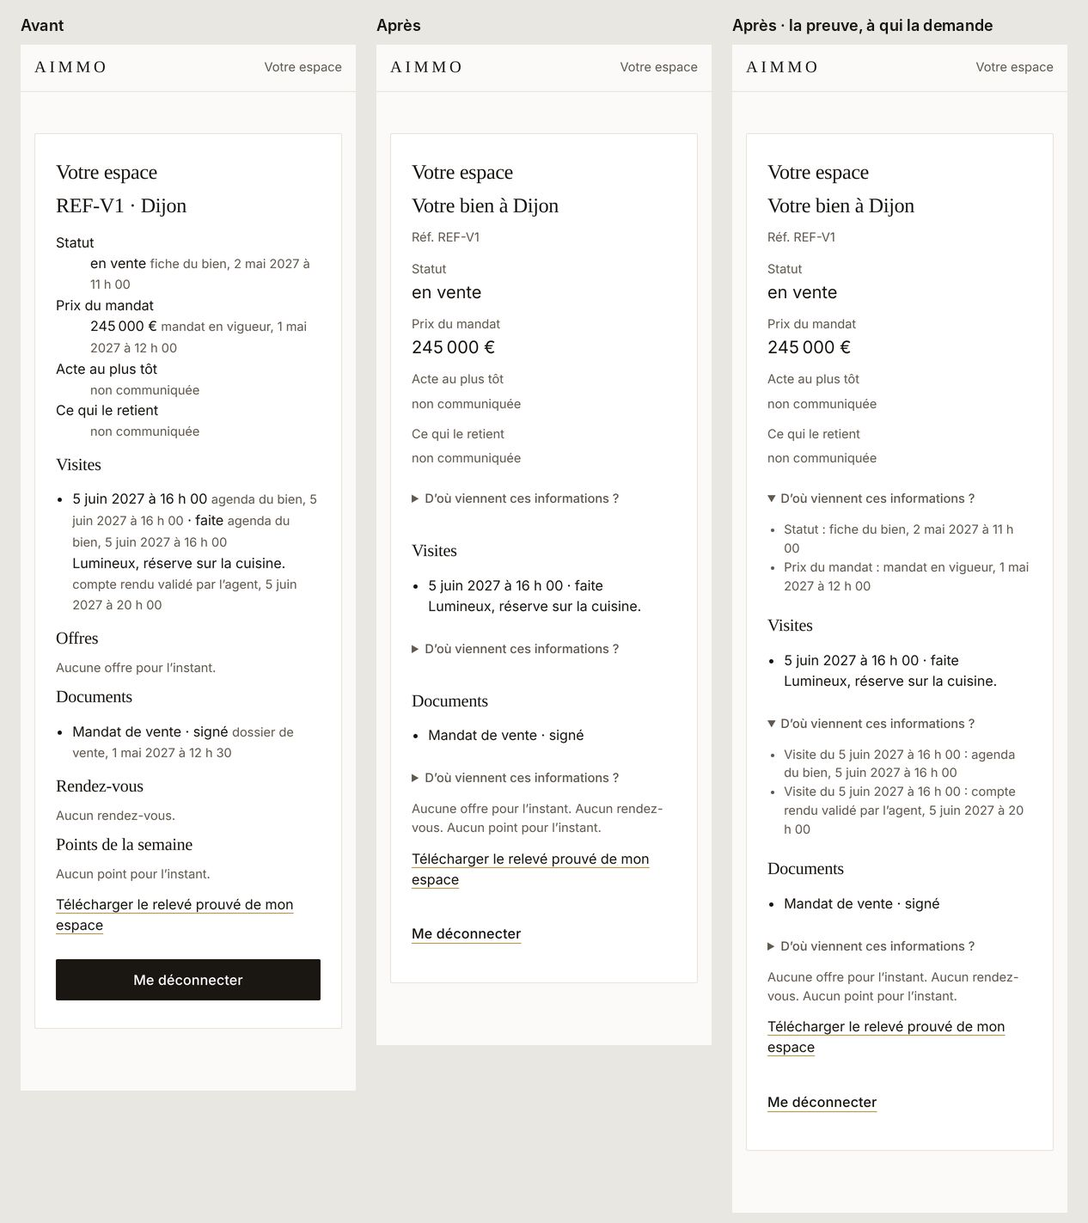
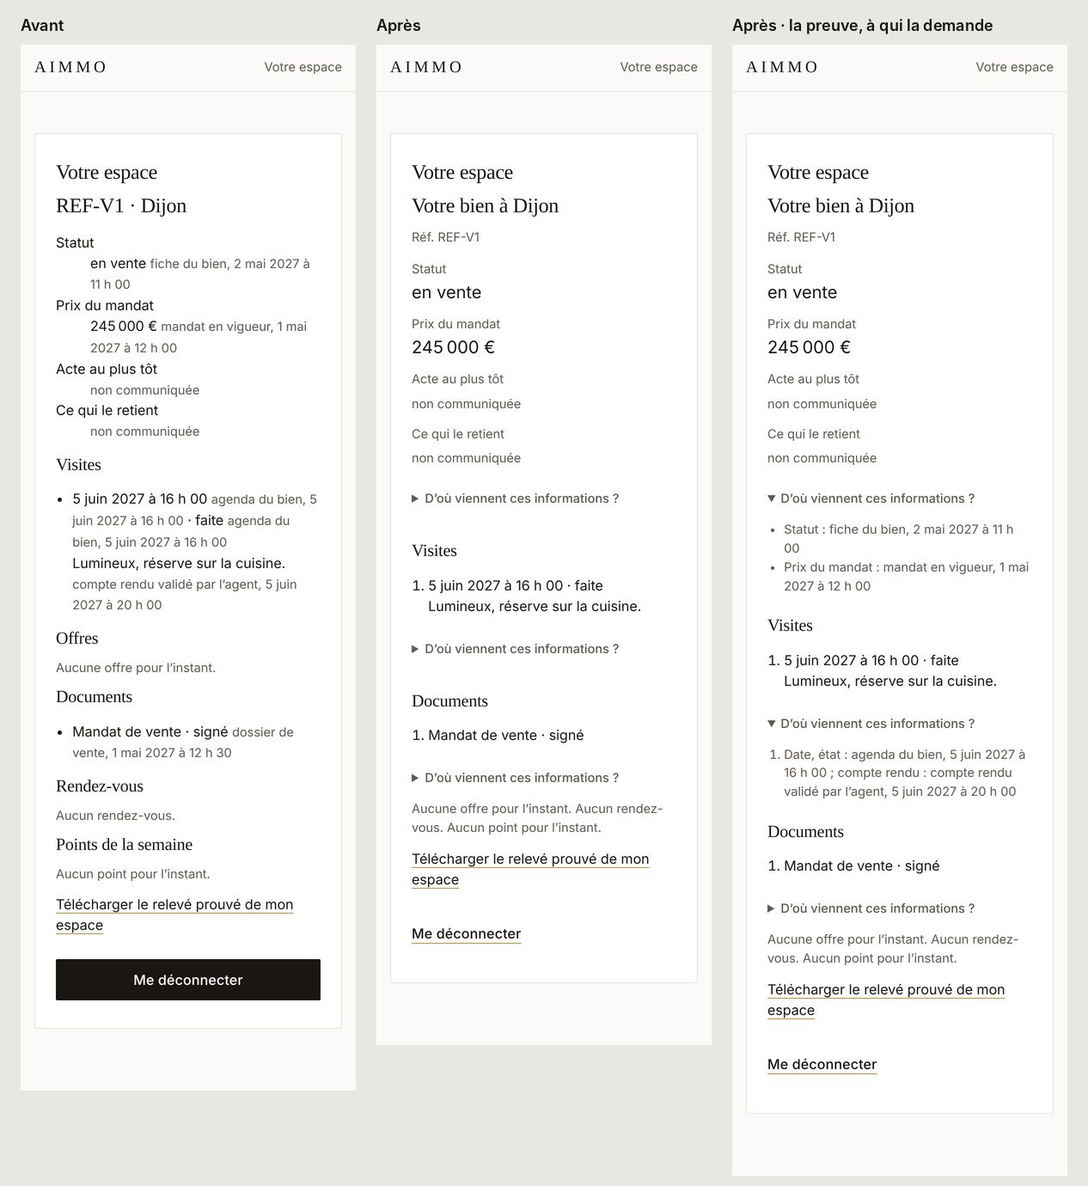
DS079 : chaque valeur garde sa propre preuve (remarque P0 de Codex)
Le champ est nommé, et dans une liste les preuves sont numérotées comme
les lignes : deux offres du même montant ne se confondent plus.

Claude-Session: https://claude.ai/code/session_01GVx7uWFL6AUCKvjQq7fqnM

diff --git a/packages/api/src/espaces.ts b/packages/api/src/espaces.ts
@@ -220,21 +220,37 @@ const isF = (x: unknown): x is F => !!x && typeof x === 'object' && 'value' in x
 
 /**
  * DS079 · La preuve se donne à qui la demande : dans la page, une valeur se lit seule ; sa source et sa date sont juste
- * dessous, derrière « D’où viennent ces informations ? », regroupées par source [R163]. Rien n'est retiré de la page :
- * chaque chiffre, chaque date et chaque statut y garde sa source et sa date, et le relevé prouvé reste entier.
+ * dessous, derrière « D’où viennent ces informations ? » [R163]. Rien n'est retiré de la page, et chaque valeur garde
+ * sa propre preuve : le nom de son champ, sa source, sa date. Dans une liste, les preuves sont numérotées comme les
+ * lignes : la preuve n° 2 est celle de la ligne n° 2, même quand deux lignes se ressemblent. Deux champs d'une même
+ * ligne ne partagent une preuve que s'ils ont la même source et la même date.
  */
 class Preuve {
-  private readonly by = new Map<string, string[]>();
-  note(label: string, f: F): void {
-    const key = `${f.source ?? ''}, ${frenchDate(f.at ?? '')}`;
-    const labels = this.by.get(key) ?? [];
-    if (!labels.includes(label)) labels.push(label);
-    this.by.set(key, labels);
+  private readonly lines: Map<string, string[]>[] = [new Map()];
+  /** La ligne suivante d'une liste : ses preuves sont données à part, sous son numéro. */
+  next(): void {
+    this.lines.push(new Map());
   }
+  note(field: string, f: F): void {
+    const by = this.lines[this.lines.length - 1]!;
+    const key = `${f.source ?? ''}, ${frenchDate(f.at ?? '')}`;
+    const fields = by.get(key) ?? [];
+    if (!fields.includes(field)) fields.push(field);
+    by.set(key, fields);
+  }
+  private static said(by: Map<string, string[]>): string[] {
+    return [...by].map(([source, fields]) => `${escape(fields.join(', '))} : ${escape(source)}`);
+  }
+  /** Un bloc de faits : une preuve par champ. Une liste : une preuve par ligne, dans l'ordre et sous le numéro des lignes. */
   html(): string {
-    if (this.by.size === 0) return '';
-    const lines = [...this.by].map(([source, labels]) => `<li>${escape(labels.join(', '))} : ${escape(source)}</li>`);
-    return `<details class="preuve"><summary>D’où viennent ces informations ?</summary><ul>${lines.join('')}</ul></details>`;
+    const listed = this.lines.length > 1;
+    const groups = listed ? this.lines.slice(1) : this.lines;
+    if (groups.every((g) => g.size === 0)) return '';
+    const capital = (t: string): string => t.charAt(0).toUpperCase() + t.slice(1);
+    const items = listed
+      ? `<ol>${groups.map((g) => `<li>${g.size === 0 ? 'Aucune donnée communiquée.' : capital(Preuve.said(g).join(' ; '))}</li>`).join('')}</ol>`
+      : `<ul>${Preuve.said(groups[0]!).map((line) => `<li>${line}</li>`).join('')}</ul>`;
+    return `<details class="preuve"><summary>D’où viennent ces informations ?</summary>${items}</details>`;
   }
 }
 
@@ -263,7 +279,7 @@ function plain(f: unknown, money = false): string | null {
   return Array.isArray(v) ? text : escape(text);
 }
 
-/** Une donnée, seule ; sa source et sa date vont à la preuve du bloc, sous le nom donné. Absente : « non communiquée » [R163]. */
+/** Une donnée, seule ; sa source et sa date vont à la preuve du bloc, sous le nom de son champ. Absente : « non communiquée » [R163]. */
 function shown(f: unknown, proof: Preuve, label: string, money = false): string {
   const text = plain(f, money);
   if (text === null) return '<span class="doux">non communiquée</span>';
@@ -283,7 +299,7 @@ class Listes {
   add(title: string, items: string[], none: string, proof: Preuve): void {
     if (items.length === 0) {
       if (none) this.empty.push(none);
-    } else this.full.push(`<h3>${escape(title)}</h3><ul>${items.join('')}</ul>${proof.html()}`);
+    } else this.full.push(`<h3>${escape(title)}</h3><ol>${items.join('')}</ol>${proof.html()}`);
   }
   html(): string {
     return `${this.full.join('')}${this.empty.length > 0 ? `<p class="doux">${this.empty.map(escape).join(' ')}</p>` : ''}`;
@@ -300,15 +316,15 @@ function sellerHtml(biens: Extract<Awaited<ReturnType<EspaceVendeur['vue']>>, { 
       const dl = `<dl>${row('Statut', shown(b.status, facts, 'Statut'))}${row('Prix du mandat', shown(b.price, facts, 'Prix du mandat', true))}${row('Acte au plus tôt', shown(b.deed.date, facts, 'Acte au plus tôt'))}${row('Ce qui le retient', shown(b.deed.holds, facts, 'Ce qui le retient'))}</dl>${facts.html()}`;
       const lists = new Listes();
       const visits = new Preuve();
-      lists.add('Visites', b.visits.map((v) => { const name = `Visite du ${plain(v.at) ?? 'jour non communiqué'}`; return `<li>${shown(v.at, visits, name)} · ${shown(v.state, visits, name)}<br>${shown(v.report, visits, name)}</li>`; }), 'Aucune visite pour l’instant.', visits);
+      lists.add('Visites', b.visits.map((v) => (visits.next(), `<li>${shown(v.at, visits, 'date')} · ${shown(v.state, visits, 'état')}<br>${shown(v.report, visits, 'compte rendu')}</li>`)), 'Aucune visite pour l’instant.', visits);
       const offers = new Preuve();
-      lists.add('Offres', b.offers.map((o) => { const name = `Offre de ${plain(o.amount, true) ?? 'montant non communiqué'}`; return `<li>${shown(o.amount, offers, name, true)} · net vendeur ${shown(o.netSeller, offers, name, true)} · ${shown(o.state, offers, name)}<br>Conditions : ${shown(o.conditions, offers, name)} · valable jusqu’au ${shown(o.validUntil, offers, name)}</li>`; }), 'Aucune offre pour l’instant.', offers);
+      lists.add('Offres', b.offers.map((o) => (offers.next(), `<li>${shown(o.amount, offers, 'montant', true)} · net vendeur ${shown(o.netSeller, offers, 'net vendeur', true)} · ${shown(o.state, offers, 'état')}<br>Reçue le ${shown(o.receivedAt, offers, 'réception')} · conditions : ${shown(o.conditions, offers, 'conditions')} · valable jusqu’au ${shown(o.validUntil, offers, 'validité')}</li>`)), 'Aucune offre pour l’instant.', offers);
       const documents = new Preuve();
-      lists.add('Documents', b.documents.map((d) => `<li>${escape(d.title)} · ${shown(d.signature, documents, d.title)}${d.number.value === null ? '' : ` · n° ${shown(d.number, documents, d.title)}`}</li>`), 'Aucun document.', documents);
+      lists.add('Documents', b.documents.map((d) => (documents.next(), `<li>${escape(d.title)} · ${shown(d.signature, documents, 'signature')}${d.number.value === null ? '' : ` · n° ${shown(d.number, documents, 'numéro')}`}</li>`)), 'Aucun document.', documents);
       const appointments = new Preuve();
-      lists.add('Rendez-vous', b.appointments.map((a) => { const name = `${a.kind} du ${plain(a.at) ?? 'jour non communiqué'}`; return `<li>${escape(a.kind)} · ${shown(a.at, appointments, name)} · ${shown(a.state, appointments, name)}</li>`; }), 'Aucun rendez-vous.', appointments);
+      lists.add('Rendez-vous', b.appointments.map((a) => (appointments.next(), `<li>${escape(a.kind)} · ${shown(a.at, appointments, 'date')} · ${shown(a.state, appointments, 'état')}</li>`)), 'Aucun rendez-vous.', appointments);
       const points = new Preuve();
-      lists.add('Points de la semaine', b.weeklyPoints.map((w) => { const name = `Point du ${plain(w.weekOf) ?? 'jour non communiqué'}`; return `<li>${shown(w.weekOf, points, name)}<br>${shown(w.text, points, name)}</li>`; }), 'Aucun point pour l’instant.', points);
+      lists.add('Points de la semaine', b.weeklyPoints.map((w) => (points.next(), `<li>${shown(w.weekOf, points, 'semaine')}<br>${shown(w.text, points, 'texte')}</li>`)), 'Aucun point pour l’instant.', points);
       return `<section>${bienTitle(b.reference, b.city)}${keys ? `<p><a href="${ESPACE_PATH}cles?bien=${encodeURIComponent(b.propertyId)}">Qui a les clés de ce bien</a></p>` : ''}${dl}${lists.html()}</section>`;
     })
     .join('');
@@ -323,7 +339,7 @@ function ownerHtml(biens: Extract<Awaited<ReturnType<EspaceProprietaire['vue']>>
           const dl = `<h3>Location ouverte le ${shown(r.openedAt, facts, 'Ouverture')}</h3><dl>${row('État', shown(r.state, facts, 'État'))}${row('Loyer du bail', shown(r.lease.rent, facts, 'Loyer du bail', true))}${row('Bail signé le', shown(r.lease.signedAt, facts, 'Bail signé le'))}${row('Dossiers encore incomplets', String(r.waiting))}</dl>${facts.html()}`;
           const lists = new Listes();
           const applications = new Preuve();
-          lists.add('Candidatures complètes, dans l’ordre d’arrivée', r.applications.map((a) => `<li>N° ${a.rank} · reçue le ${shown(a.receivedAt, applications, `Candidature n° ${a.rank}`)} · ${a.guarantors} garant${a.guarantors > 1 ? 's' : ''}<br>${a.pieces.map((x) => escape(x.label)).join(' ; ') || 'aucune pièce'}</li>`), 'Aucune candidature complète pour l’instant.', applications);
+          lists.add('Candidatures complètes, dans l’ordre d’arrivée', r.applications.map((a) => (applications.next(), `<li>N° ${a.rank} · reçue le ${shown(a.receivedAt, applications, 'réception')} · ${a.guarantors} garant${a.guarantors > 1 ? 's' : ''}<br>${a.pieces.map((x) => escape(x.label)).join(' ; ') || 'aucune pièce'}</li>`)), 'Aucune candidature complète pour l’instant.', applications);
           return `${dl}${lists.html()}`;
         })
         .join('');
@@ -331,7 +347,7 @@ function ownerHtml(biens: Extract<Awaited<ReturnType<EspaceProprietaire['vue']>>
       const value = b.value ? `<dl>${row(`Valeur à ${b.value.city}`, shown(b.value.range, worth, 'Valeur'))}${row('Sources', b.value.sources.map(escape).join(' ; '))}</dl>${worth.html()}` : '';
       const lists = new Listes();
       const documents = new Preuve();
-      lists.add('Vos documents', b.documents.map((d) => `<li>${escape(d.title)} · ${shown(d.addedAt, documents, d.title)}</li>`), 'Aucun document.', documents);
+      lists.add('Vos documents', b.documents.map((d) => (documents.next(), `<li>${escape(d.title)} · ${shown(d.addedAt, documents, 'ajout')}</li>`)), 'Aucun document.', documents);
       return `<section>${bienTitle(b.reference, b.city)}${value}${rentals}${lists.html()}</section>`;
     })
     .join('');
@@ -341,19 +357,19 @@ function buyerHtml(v: Extract<Awaited<ReturnType<EspaceAcquereur['vue']>>, { ok:
   const lists = new Listes();
   const proposed = new Preuve();
   const props = v.properties.map(
-    (p) => `<li><strong>${escape(p.kind)} à ${escape(p.city)}</strong> · ${shown(p.price, proposed, p.reference, true)} · ${shown(p.surface, proposed, p.reference)} m²<br><span class="doux">Réf. ${escape(p.reference)}</span>${
-      p.investor ? `<br>Rendement brut ${shown(p.investor.grossYield, proposed, p.reference)} points de base · hypothèses : ${p.investor.hypotheses.map(escape).join(' ; ')}` : ''
-    }<form method="post" action="${ESPACE_PATH}favori"><input type="hidden" name="bien" value="${escape(p.propertyId)}"><input type="hidden" name="favori" value="${p.favorite ? 'non' : 'oui'}"><button type="submit" class="secondaire">${p.favorite ? 'Retirer des favoris' : 'Mettre en favori'}</button></form></li>`,
+    (p) => (proposed.next(), `<li><strong>${escape(p.kind)} à ${escape(p.city)}</strong> · ${shown(p.price, proposed, 'prix', true)} · ${shown(p.surface, proposed, 'surface')} m²<br><span class="doux">Réf. ${escape(p.reference)}</span>${
+      p.investor ? `<br>Rendement brut ${shown(p.investor.grossYield, proposed, 'rendement brut')} points de base · hypothèses : ${p.investor.hypotheses.map(escape).join(' ; ')}` : ''
+    }<form method="post" action="${ESPACE_PATH}favori"><input type="hidden" name="bien" value="${escape(p.propertyId)}"><input type="hidden" name="favori" value="${p.favorite ? 'non' : 'oui'}"><button type="submit" class="secondaire">${p.favorite ? 'Retirer des favoris' : 'Mettre en favori'}</button></form></li>`),
   );
   lists.add('Biens proposés', props, 'Aucun bien proposé pour l’instant.', proposed);
   const visits = new Preuve();
-  lists.add('Vos visites', v.visits.map((x) => { const name = `Visite du ${plain(x.at) ?? 'jour non communiqué'}`; return `<li>${shown(x.at, visits, name)} · ${shown(x.state, visits, name)}</li>`; }), 'Aucune visite.', visits);
+  lists.add('Vos visites', v.visits.map((x) => (visits.next(), `<li>${shown(x.at, visits, 'date')} · ${shown(x.state, visits, 'état')}</li>`)), 'Aucune visite.', visits);
   const offers = new Preuve();
-  lists.add('Vos offres', v.offers.map((x) => { const name = `Offre de ${plain(x.amount, true) ?? 'montant non communiqué'}`; return `<li>${shown(x.amount, offers, name, true)} · ${shown(x.state, offers, name)}</li>`; }), 'Aucune offre.', offers);
+  lists.add('Vos offres', v.offers.map((x) => (offers.next(), `<li>${shown(x.amount, offers, 'montant', true)} · ${shown(x.state, offers, 'état')}</li>`)), 'Aucune offre.', offers);
   const files = new Preuve();
-  lists.add('Vos dossiers', v.files.map((f) => `<li>Acte au plus tôt : ${shown(f.deedDate, files, 'Acte au plus tôt')} · prêt : ${shown(f.loan, files, 'Prêt')}<br>${f.pieces.map((x) => `${escape(x.kind)} : ${shown(x.state, files, x.kind)}`).join(' ; ')}</li>`), 'Aucun dossier.', files);
+  lists.add('Vos dossiers', v.files.map((f) => (files.next(), `<li>Acte au plus tôt : ${shown(f.deedDate, files, 'acte au plus tôt')} · prêt : ${shown(f.loan, files, 'prêt')}<br>${f.pieces.map((x) => `${escape(x.kind)} : ${shown(x.state, files, x.kind)}`).join(' ; ')}</li>`)), 'Aucun dossier.', files);
   const rentals = new Preuve();
-  if (v.rentals.length > 0) lists.add('Vos candidatures', v.rentals.map((r) => `<li>${escape(r.reference)} à ${escape(r.city)} · ${shown(r.state, rentals, r.reference)}</li>`), '', rentals);
+  if (v.rentals.length > 0) lists.add('Vos candidatures', v.rentals.map((r) => (rentals.next(), `<li>${escape(r.reference)} à ${escape(r.city)} · ${shown(r.state, rentals, 'état')}</li>`)), '', rentals);
   return `<section><h2>Votre recherche</h2><p>Alertes : ${v.alerts.requested ? 'demandées' : 'non demandées'}.</p>${lists.html()}</section>`;
 }
 

diff --git a/packages/api/test/espaces-routes.test.ts b/packages/api/test/espaces-routes.test.ts
@@ -249,16 +249,50 @@ describeWithSqlite('EC06 · routes et page de l’espace', () => {
     const visible = home.text.replace(/<details class="preuve">[\s\S]*?<\/details>/g, '');
     for (const source of ['fiche du bien', 'mandat en vigueur', 'agenda du bien', 'compte rendu validé', 'dossier de vente']) expect(visible, source).not.toContain(source);
     // Chaque bloc a sa preuve, regroupée par source, avec la date de chacune.
-    const proofs = [...home.text.matchAll(/<details class="preuve"><summary>D’où viennent ces informations \?<\/summary><ul>([\s\S]*?)<\/ul><\/details>/g)].map((m) => m[1]);
+    const proofs = [...home.text.matchAll(/<details class="preuve"><summary>D’où viennent ces informations \?<\/summary>([\s\S]*?)<\/details>/g)].map((m) => m[1]);
     expect(proofs).toEqual([
-      '<li>Statut : fiche du bien, 2 mai 2027 à 11 h 00</li><li>Prix du mandat : mandat en vigueur, 1 mai 2027 à 12 h 00</li>',
-      '<li>Visite du 5 juin 2027 à 16 h 00 : agenda du bien, 5 juin 2027 à 16 h 00</li><li>Visite du 5 juin 2027 à 16 h 00 : compte rendu validé par l’agent, 5 juin 2027 à 20 h 00</li>',
-      '<li>Mandat de vente : dossier de vente, 1 mai 2027 à 12 h 30</li>',
+      // Les faits du bien : une preuve par champ.
+      '<ul><li>Statut : fiche du bien, 2 mai 2027 à 11 h 00</li><li>Prix du mandat : mandat en vigueur, 1 mai 2027 à 12 h 00</li></ul>',
+      // Une liste : une preuve par ligne, sous le numéro de la ligne, chaque champ nommé.
+      '<ol><li>Date, état : agenda du bien, 5 juin 2027 à 16 h 00 ; compte rendu : compte rendu validé par l’agent, 5 juin 2027 à 20 h 00</li></ol>',
+      '<ol><li>Signature : dossier de vente, 1 mai 2027 à 12 h 30</li></ol>',
     ]);
+    // Les lignes d'une liste sont numérotées comme leurs preuves.
+    expect(home.text).toContain('<h3>Visites</h3><ol><li>5 juin 2027 à 16 h 00 · faite<br>');
     // Une donnée absente reste dite, sans preuve à montrer.
     expect(home.text).toContain('<dt>Acte au plus tôt</dt><dd><span class="doux">non communiquée</span></dd>');
     // Le relevé prouvé reste entier : il part des mêmes données, sources et dates comprises [R164].
     expect(home.text).toContain('Télécharger le relevé prouvé de mon espace');
+  });
+
+  it('[R163] DS079 · chaque valeur garde sa propre preuve : deux offres du même montant, un état changé après la réception', async () => {
+    const t = await setup();
+    const c = await t.client('vendeur');
+    t.s.vendeur.offersOf = async () => [
+      { id: 'o1', receivedAt: '2027-06-06T08:00:00.000Z', amountEur: 200_000, netSellerEur: 190_000, conditions: ['prêt'], validUntil: '2027-06-20', state: 'refusée', stateAt: '2027-06-08T09:30:00.000Z', buyer: null },
+      { id: 'o2', receivedAt: '2027-06-07T08:00:00.000Z', amountEur: 200_000, netSellerEur: 190_000, conditions: [], validUntil: '2027-06-21', state: 'reçue', stateAt: '2027-06-07T08:00:00.000Z', buyer: null },
+    ];
+    const home = await t.pub('GET', ESPACE_PATH, { cookie: await t.enter(c.token) });
+    const offers = /<h3>Offres<\/h3><ol>([\s\S]*?)<\/ol><details class="preuve"><summary>[^<]*<\/summary><ol>([\s\S]*?)<\/ol><\/details>/.exec(home.text)!;
+    const lines = offers[1]!.split('</li>').filter(Boolean);
+    const proofs = offers[2]!.split('</li>').filter(Boolean).map((p) => p.replace('<li>', ''));
+    // Deux lignes, deux preuves, dans le même ordre : la preuve n° 1 est celle de la ligne n° 1.
+    expect(lines).toHaveLength(2);
+    expect(proofs).toHaveLength(2);
+    expect(lines[0]).toContain('refusée');
+    expect(lines[1]).toContain('reçue');
+    // L'état de la première offre a changé deux jours après sa réception : sa preuve le dit à part, sous son nom.
+    expect(proofs[0]).toMatch(/état : registre des offres, 8 juin 2027 à 11 h 30/);
+    expect(proofs[0]).toMatch(/[Mm]ontant[^:;]* : registre des offres, 6 juin 2027 à 10 h 00/);
+    expect(proofs[0]).not.toMatch(/état[^;]*6 juin 2027/);
+    // Le net vendeur ne vient pas du registre des offres : il a sa source à lui.
+    const net = /net vendeur[^:;]* : ([^;<]+)/.exec(proofs[0]!)![1]!;
+    expect(net).not.toContain('8 juin 2027');
+    // La seconde offre, de même montant, a ses preuves à elle : datées de sa réception.
+    expect(proofs[1]).toMatch(/registre des offres, 7 juin 2027 à 10 h 00/);
+    expect(proofs[1]).not.toContain('6 juin 2027');
+    // Chaque champ montré est nommé dans la preuve de sa ligne.
+    for (const p of proofs) for (const field of ['ontant', 'net vendeur', 'état', 'réception', 'validité']) expect(p, field).toContain(field);
   });
 
   it('DS080, DS081, DS082 · le client lit son bien, les listes vides tiennent en une phrase, et aucun bouton plein ne va à la déconnexion', async () => {

diff --git a/packages/core/src/design/systeme.ts b/packages/core/src/design/systeme.ts
@@ -259,11 +259,11 @@ export const PUBLIC_PAGE_CSS =
   'main{max-width:var(--colonne);margin:0 auto;padding:var(--e-6) var(--e-4) var(--e-8)}' +
   '.carte{padding:var(--e-6) var(--e-5)}.carte h1{font-size:var(--t-xl)}' +
   '.carte form button[type=submit]{width:100%;margin-top:var(--e-4)}.carte form button.secondaire,.carte form button.discret{width:auto}' +
-  'ul{padding-left:1.2rem}' +
+  'ul,ol{padding-left:1.2rem}' +
   // DS079 · l'espace d'un client : une donnée sous son nom, et sa preuve derrière « D’où viennent ces informations ? ».
   'section+section{margin-top:var(--e-6);padding-top:var(--e-5);border-top:1px solid var(--trait)}h3{margin-top:var(--e-5)}' +
   'dl{margin:var(--e-4) 0 0}dt{font-size:var(--t-s);color:var(--doux)}dd{margin:0 0 var(--e-3);font-size:var(--t-l)}' +
-  '.preuve{font-size:var(--t-s);color:var(--doux)}.preuve summary{min-height:var(--cible);padding:var(--e-3) 0;cursor:pointer;font-weight:500}.preuve ul{margin:0 0 var(--e-3)}';
+  '.preuve{font-size:var(--t-s);color:var(--doux)}.preuve summary{min-height:var(--cible);padding:var(--e-3) 0;cursor:pointer;font-weight:500}.preuve ul,.preuve ol{margin:0 0 var(--e-3)}';
 
 /**
  * Les deux étiquettes du diagnostic de performance énergétique (AU006) [R43, R201] : l'échelle « énergie » de A à G,

diff --git a/docs/REGLES.md b/docs/REGLES.md
@@ -245,7 +245,7 @@ Chaque règle a un numéro. Une règle « en service » a au moins un test qui p
 | R160 | Entrée de l'espace client. Un client entre dans son espace sans mot de passe, par un lien personnel à usage unique, valable 30 minutes, qui ouvre une séance de 12 heures ; le lien part par le contrôle central, seulement après l'accord du client pour le recevoir par mail ; seule l'empreinte du lien et de la séance est rangée ; une demande de lien répond pareil, que l'adresse soit connue ou non ; au plus 3 liens par 24 heures et par personne, fiches réunies comprises, demandés par le client ou préparés par son agent ou la direction ; un lien refusé par le contrôle central, jamais remis, ne compte pas. | oui | EC01 |
 | R161 | Cloison de l'espace client. Un client ne voit que les dossiers où il est partie, et de chacun seulement les champs écrits pour son côté ; la vue du vendeur ne porte ni nom ni coordonnée d'un visiteur ou d'un acquéreur, celle de l'acquéreur rien du vendeur au-delà du bien publié. Chaque mandant d'un mandat signé, le premier comme les autres, est partie et voit le mandat et son numéro du registre, jamais ce qui n'est qu'à un autre mandant. | oui | EC02, AU001b |
 | R162 | Candidatures sans classement. Le bailleur voit les candidatures complètes dans leur ordre d'arrivée, sans note, tri ni avis de l'IA, et aucune pièce que la loi interdit de demander. | oui | EC03 |
-| R163 | Rien d'inventé dans l'espace. Chaque chiffre, date et statut d'un espace vient de la base avec sa source et sa date ; une donnée absente est dite « non communiquée » ; aucune prévision qui ne soit un calcul du code. Un état, une signature ou la sorte d'un bien y sont écrits en français, jamais avec le code de la base ; un code inconnu est dit « non communiqué ». Dans la page, la valeur se lit seule, et sa source avec sa date sont données juste dessous, à qui les demande (DS079). | oui | EC02, DS078, DS079 |
+| R163 | Rien d'inventé dans l'espace. Chaque chiffre, date et statut d'un espace vient de la base avec sa source et sa date ; une donnée absente est dite « non communiquée » ; aucune prévision qui ne soit un calcul du code. Un état, une signature ou la sorte d'un bien y sont écrits en français, jamais avec le code de la base ; un code inconnu est dit « non communiqué ». Dans la page, la valeur se lit seule ; sa source et sa date sont données juste dessous, à qui les demande, chaque valeur sous le nom de son champ et, dans une liste, sous le numéro de sa ligne (DS079). | oui | EC02, DS078, DS079 |
 | R164 | Relevé prouvé. Le relevé d'un espace est signé par le réseau ; toute modification est détectée à la vérification, qui ne dit que « intact, fait le … » ou « modifié ». | oui | EC05 |
 | R165 | Gestes du client par leur module. Une réservation de visite, une offre écrite ou une pièce déposée depuis l'espace passe par la route du module qui la tient, avec les mêmes contrôles. | oui | EC04, EC10 |
 | R200 | Lien d'accès. Le lien qui ouvre l'application à une personne du réseau part seulement du travail « Créer l'accès », lancé à la main depuis main, à l'adresse saisie au lancement, jamais à un client ni à une adresse tirée de la base ; il ne porte que ce lien, sert une seule fois et expire en 24 heures. Ce n'est pas un message à une personne de la fiche client : il ne passe pas par le contrôle central des envois, et ni le jeton, ni une clé, ni l'adresse ne sont écrits au journal ni dans le dépôt. | oui | Z02 |

diff --git a/docs/design/AUDIT.md b/docs/design/AUDIT.md
@@ -566,7 +566,7 @@ Chaque problème a son identifiant, sa gravité, sa catégorie et son effort (S 
 - Preuve : `espace-client.jpg` : « 210 000 € annonce publiée, 20 mai 2027 à 10 h 00 · 64 annonce publiée, 20 mai 2027 à 10 h 00 m² ».
 - Principe : la preuve se donne à qui la demande.
 - Solution : la valeur seule, et « D'où vient ce chiffre ? » qui ouvre la source et la date. Le relevé prouvé reste téléchargeable.
-- Suite : corrigé le 2026-11-27 : une valeur se lit seule ; sa source et sa date sont juste dessous, derrière « D'où viennent ces informations ? », regroupées par source, pour chaque bloc [R163]. Aucune ne manque, et le relevé prouvé reste entier. Avant et après : `captures/avant-apres/DS079-espace-du-vendeur.jpg`.
+- Suite : corrigé le 2026-11-27 : une valeur se lit seule ; sa source et sa date sont juste dessous, derrière « D'où viennent ces informations ? », pour chaque bloc [R163] : chaque champ y est nommé avec sa source et sa date, et dans une liste les preuves sont numérotées comme les lignes. Aucune ne manque, et le relevé prouvé reste entier. Avant et après : `captures/avant-apres/DS079-espace-du-vendeur.jpg`.
 
 #### DS080 · Le vendeur voit « REF-V1 · Dijon », pas sa maison
 - Gravité : majeur · Catégorie : espace client · Effort : M
